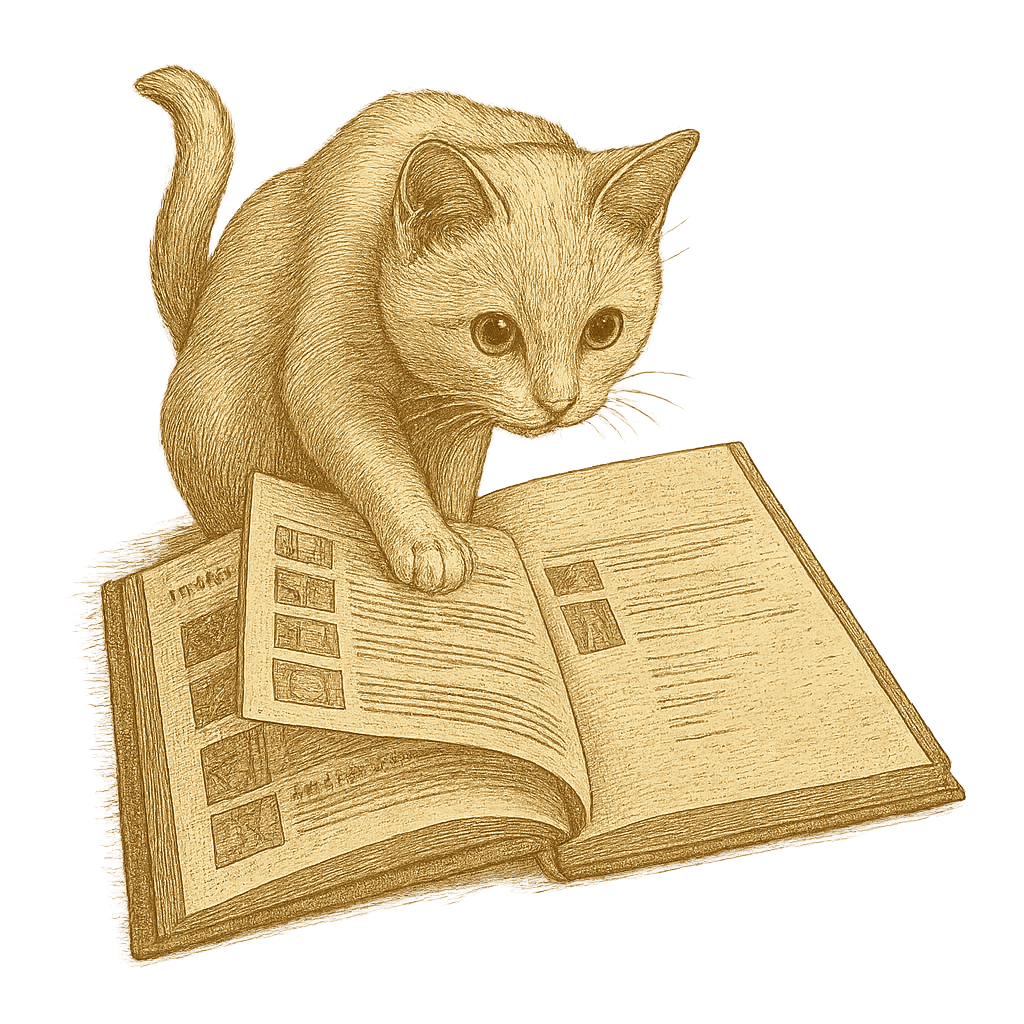
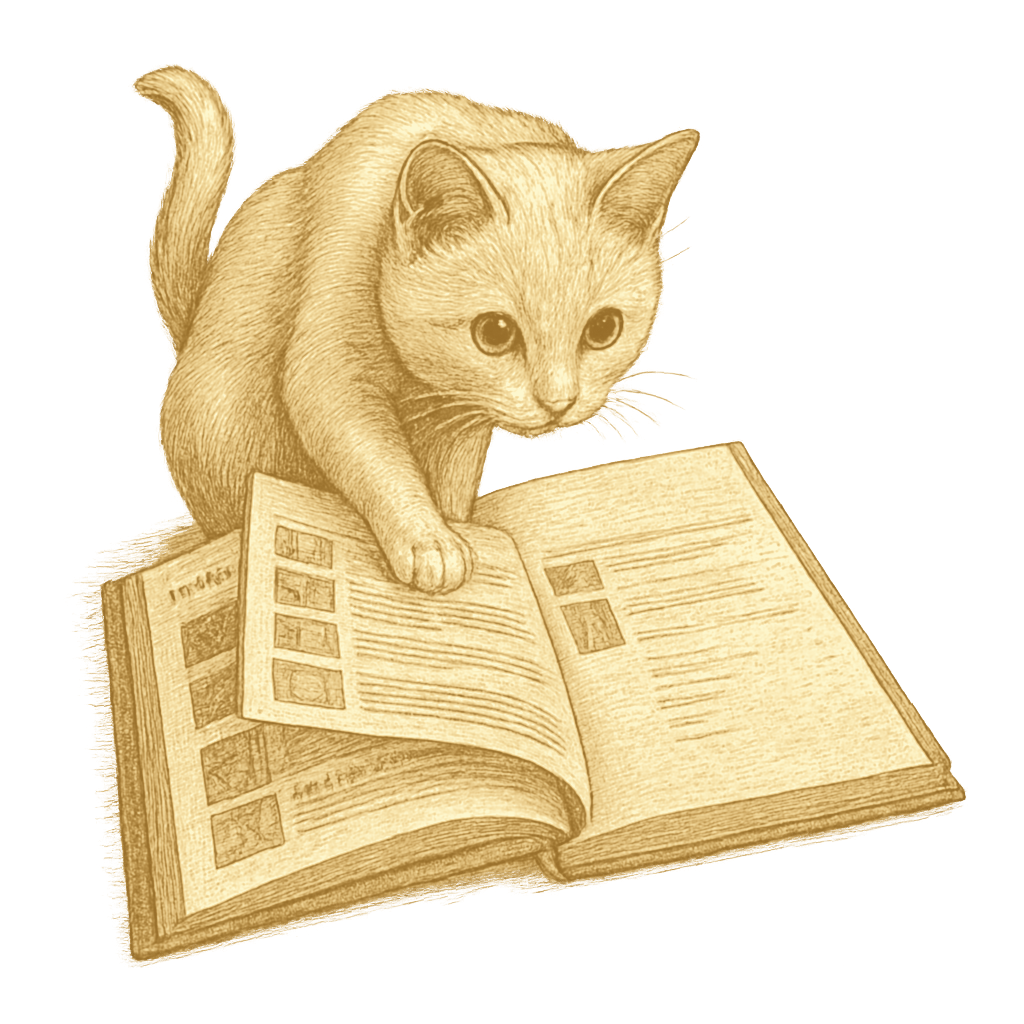
Books kitty: lighter, softer, toned like the Jacquard loom
Claude-Session: https://claude.ai/code/session_016R5T8HULVGKfAE3PW3pdJb

diff --git a/site/journal/index.html b/site/journal/index.html
@@ -62,7 +62,7 @@
 <p class="life-description">Some posts look back, others are notes on what I'm working on right now. Think of it as my notebook: a place to keep track of what I'm making &amp; learning.</p>
         </div>
         <div class="life-header-right">
-            <img src="/img/life/books.png?v=t1" alt="Linus the cat reading an open journal" class="journal-linus-image">
+            <img src="/img/life/books.png?v=t2" alt="Linus the cat reading an open journal" class="journal-linus-image">
         </div>
     </div>
 </section>

diff --git a/site/life/index.html b/site/life/index.html
@@ -76,7 +76,7 @@
         <div class="journal-entry">
             <a href="/life/books/">
                 <div class="life-image-container">
-                    <img src="../img/life/books.png?v=t1" alt="">
+                    <img src="../img/life/books.png?v=t2" alt="">
                     <span class="tag-overlay">BOOKS</span>
                 </div>
             </a>
